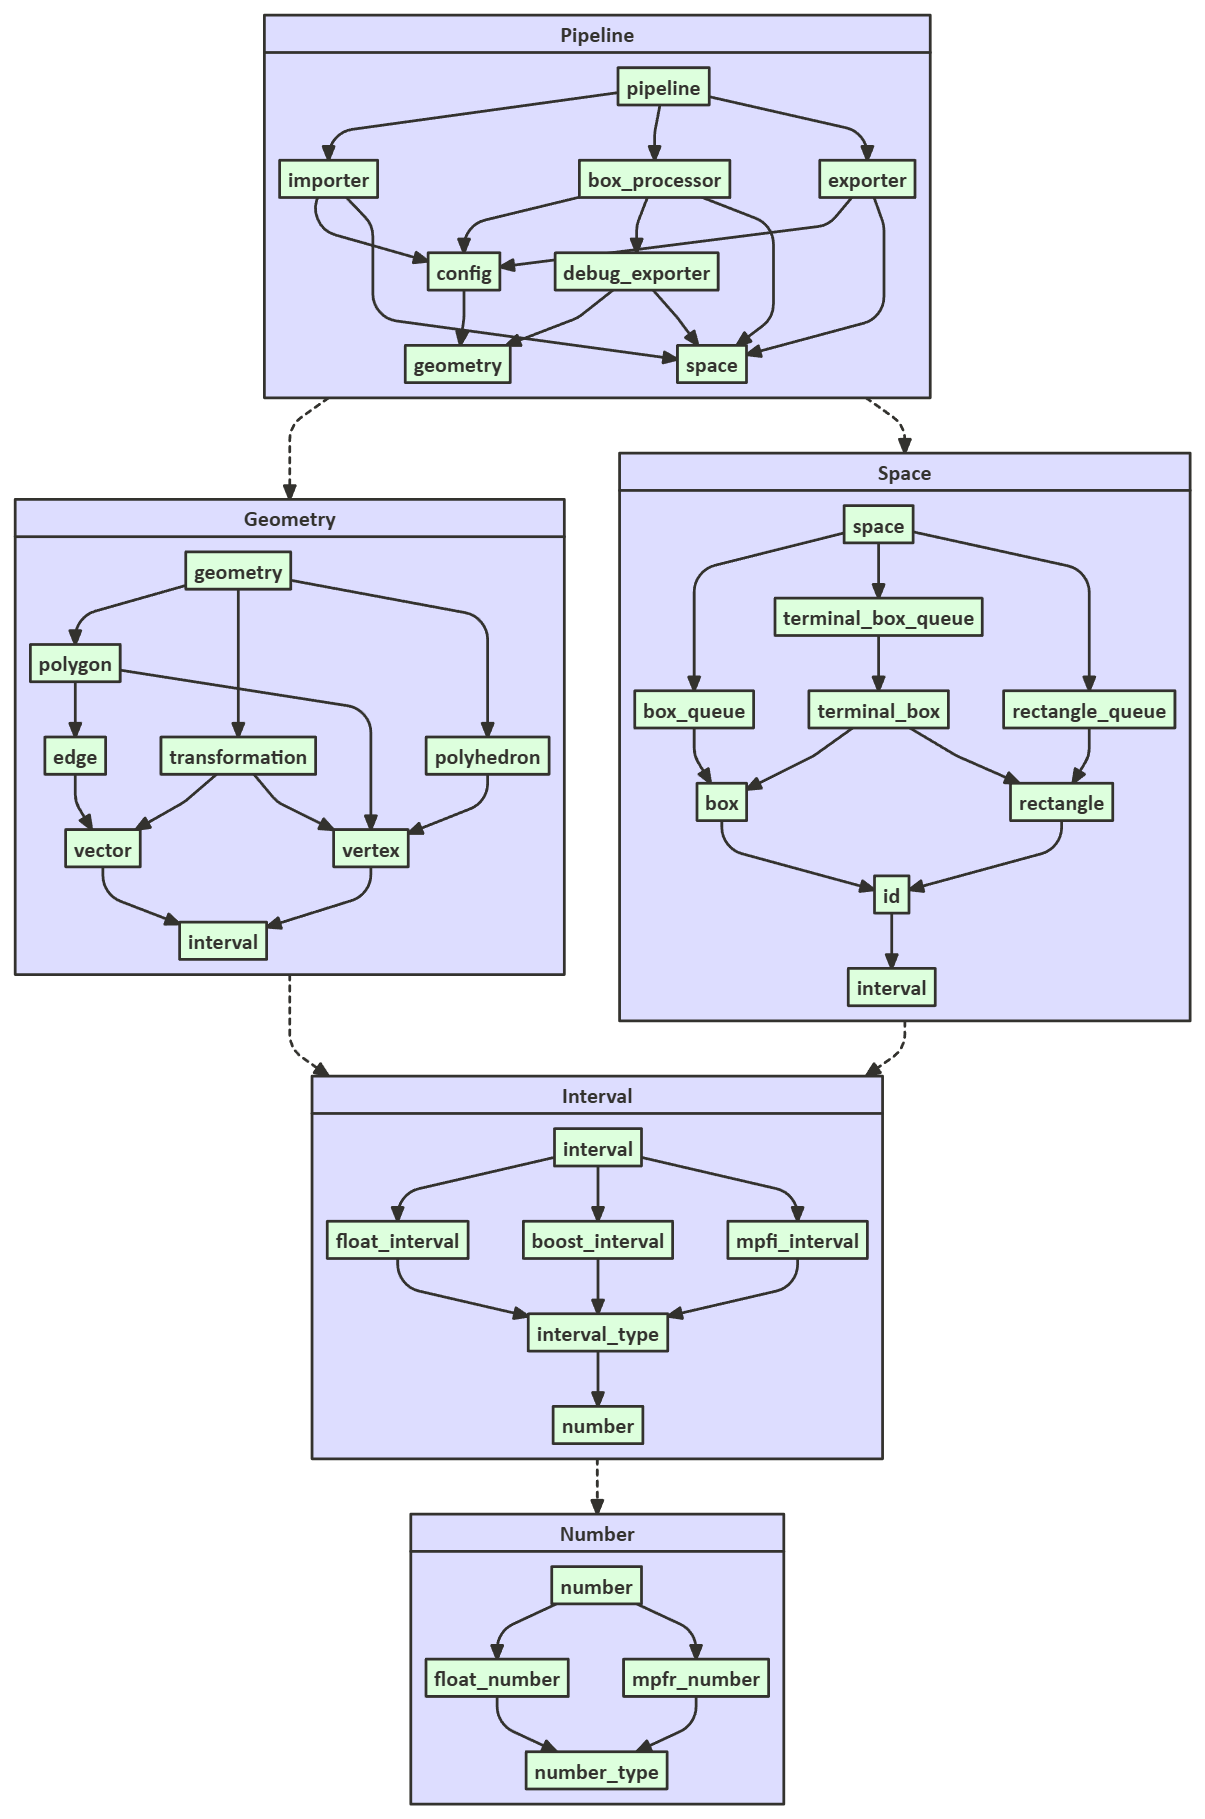
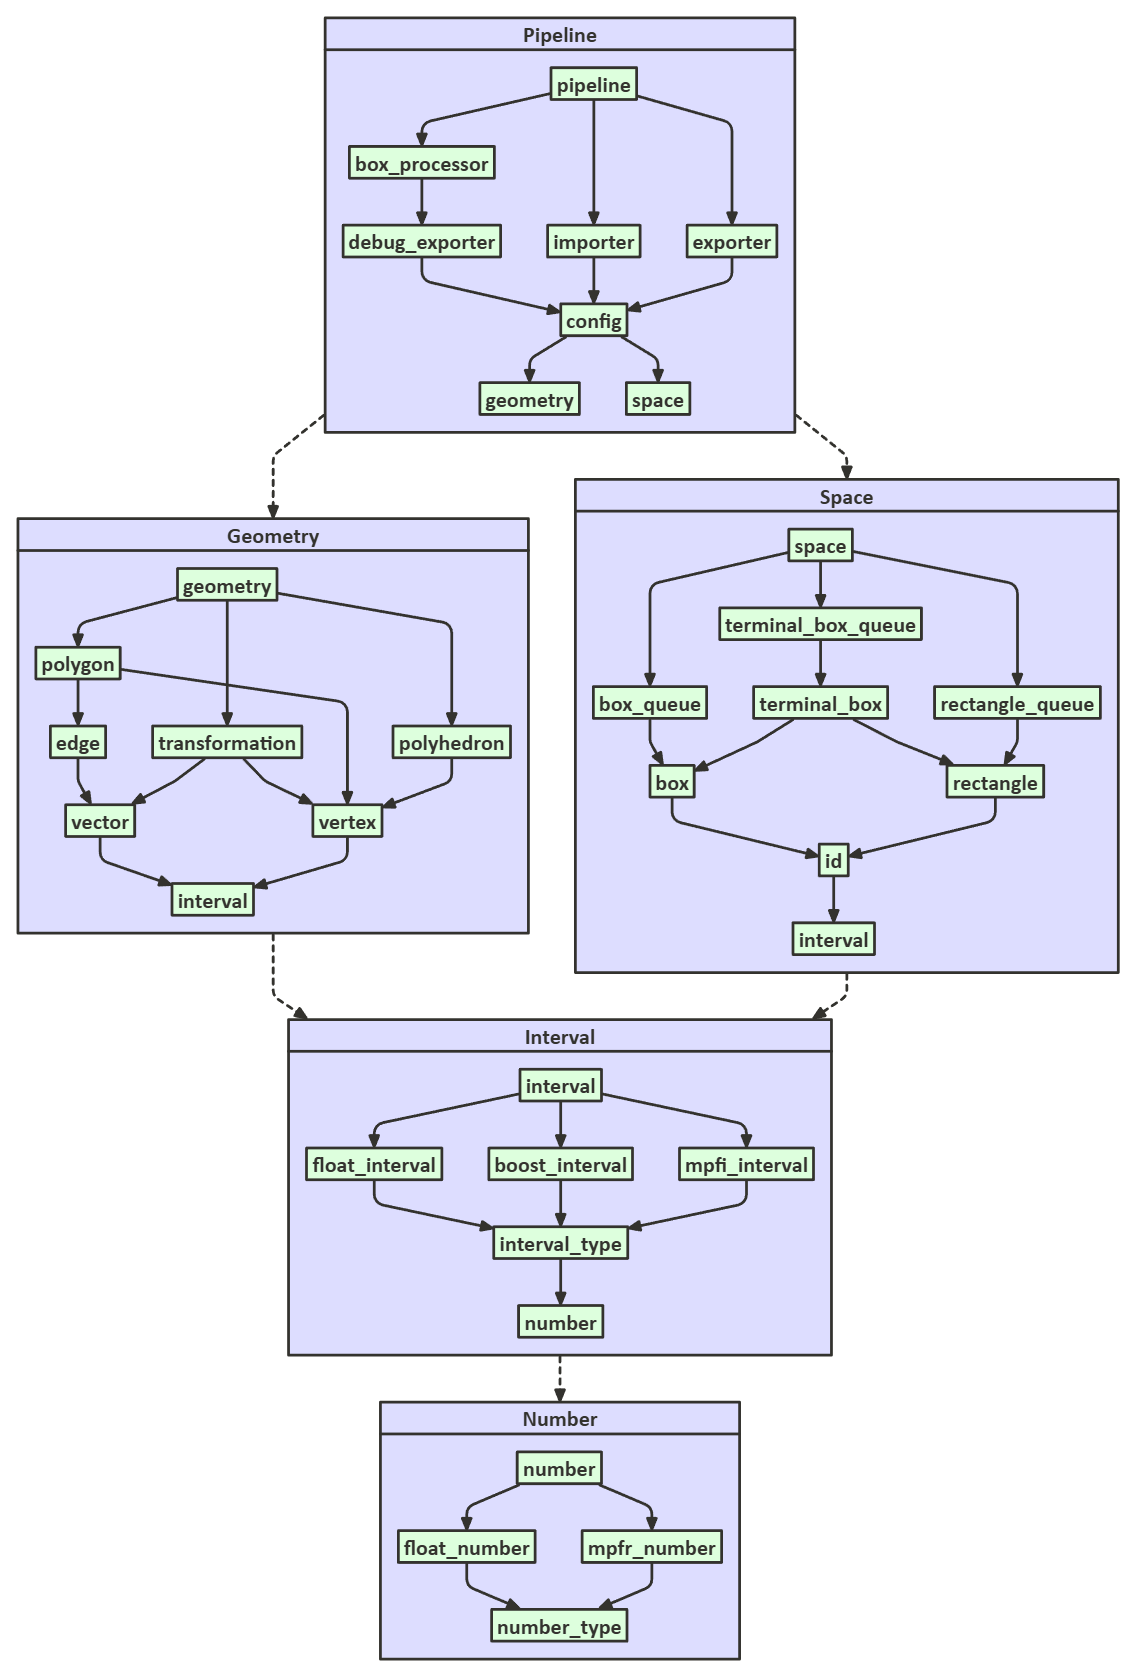
Dependency structure update in Pipeline

Changed region(s): [[0.0, 0.0, 1.0, 0.9922]]

diff --git a/cpp/src/pipeline/debug_exporter.hpp b/cpp/src/pipeline/debug_exporter.hpp
@@ -5,8 +5,7 @@
 #include "flatbuffers/flatbuffers_generated.h"
 #pragma GCC diagnostic pop
 
-#include "geometry/geometry.hpp"
-#include "space/space.hpp"
+#include "pipeline/config.hpp"
 #include <fstream>
 
 struct ProjectionBuilder {

diff --git a/cpp/src/pipeline/box_processor.hpp b/cpp/src/pipeline/box_processor.hpp
@@ -1,8 +1,6 @@
 #pragma once
 
-#include "pipeline/config.hpp"
 #include "pipeline/debug_exporter.hpp"
-#include "space/space.hpp"
 
 template<IntervalType Interval>
 struct BoxProcessor {

diff --git a/cpp/src/pipeline/pipeline.hpp b/cpp/src/pipeline/pipeline.hpp
@@ -1,6 +1,5 @@
 #pragma once
 
-#include "pipeline/config.hpp"
 #include "pipeline/box_processor.hpp"
 #include "pipeline/importer.hpp"
 #include "pipeline/exporter.hpp"

diff --git a/cpp/src/pipeline/exporter.hpp b/cpp/src/pipeline/exporter.hpp
@@ -1,7 +1,6 @@
 #pragma once
 
 #include "pipeline/config.hpp"
-#include "space/space.hpp"
 #include <fstream>
 
 template<IntervalType Interval>

diff --git a/cpp/src/pipeline/importer.hpp b/cpp/src/pipeline/importer.hpp
@@ -1,7 +1,6 @@
 #pragma once
 
 #include "pipeline/config.hpp"
-#include "space/space.hpp"
 #include <fstream>
 
 template<IntervalType Interval>

diff --git a/cpp/src/pipeline/config.hpp b/cpp/src/pipeline/config.hpp
@@ -1,6 +1,7 @@
 #pragma once
 
 #include "geometry/geometry.hpp"
+#include "space/space.hpp"
 #include <cstdint>
 #include <filesystem>
 
